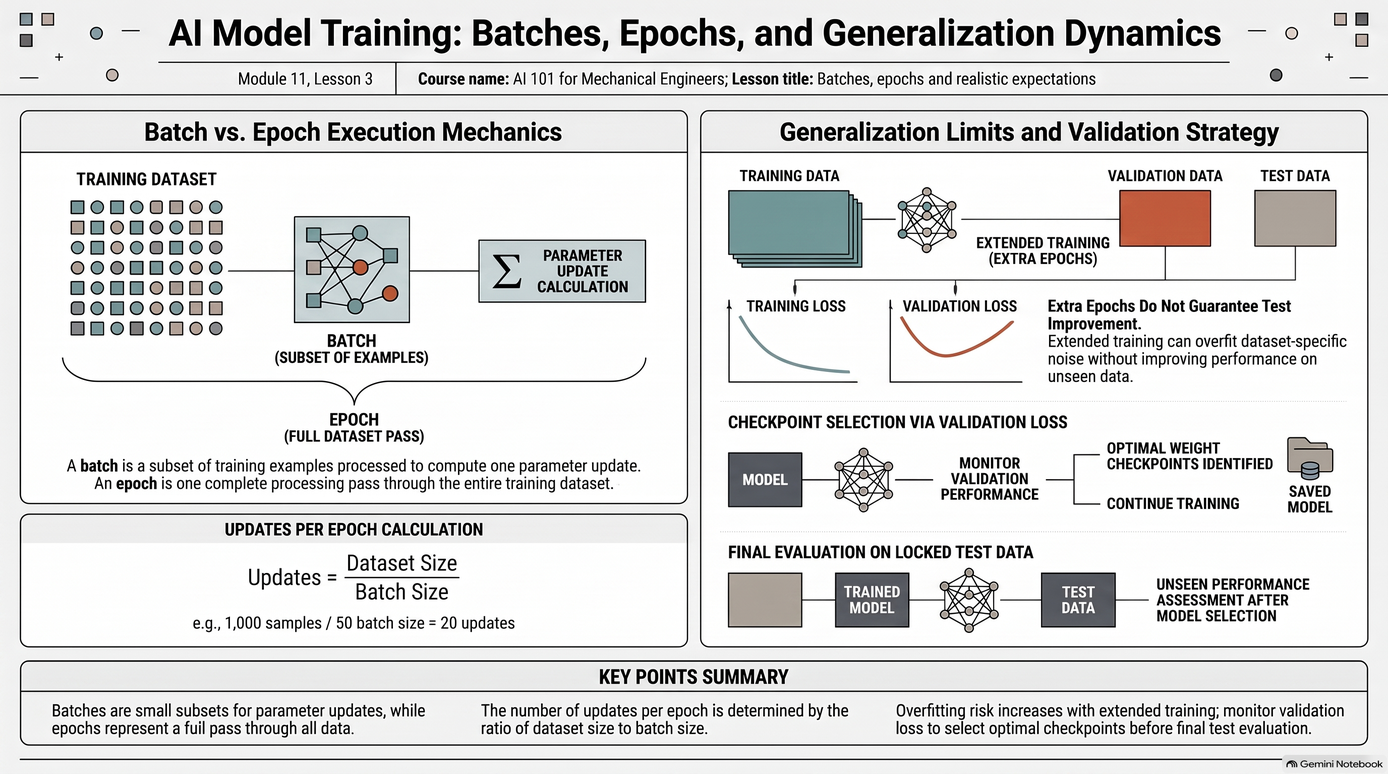
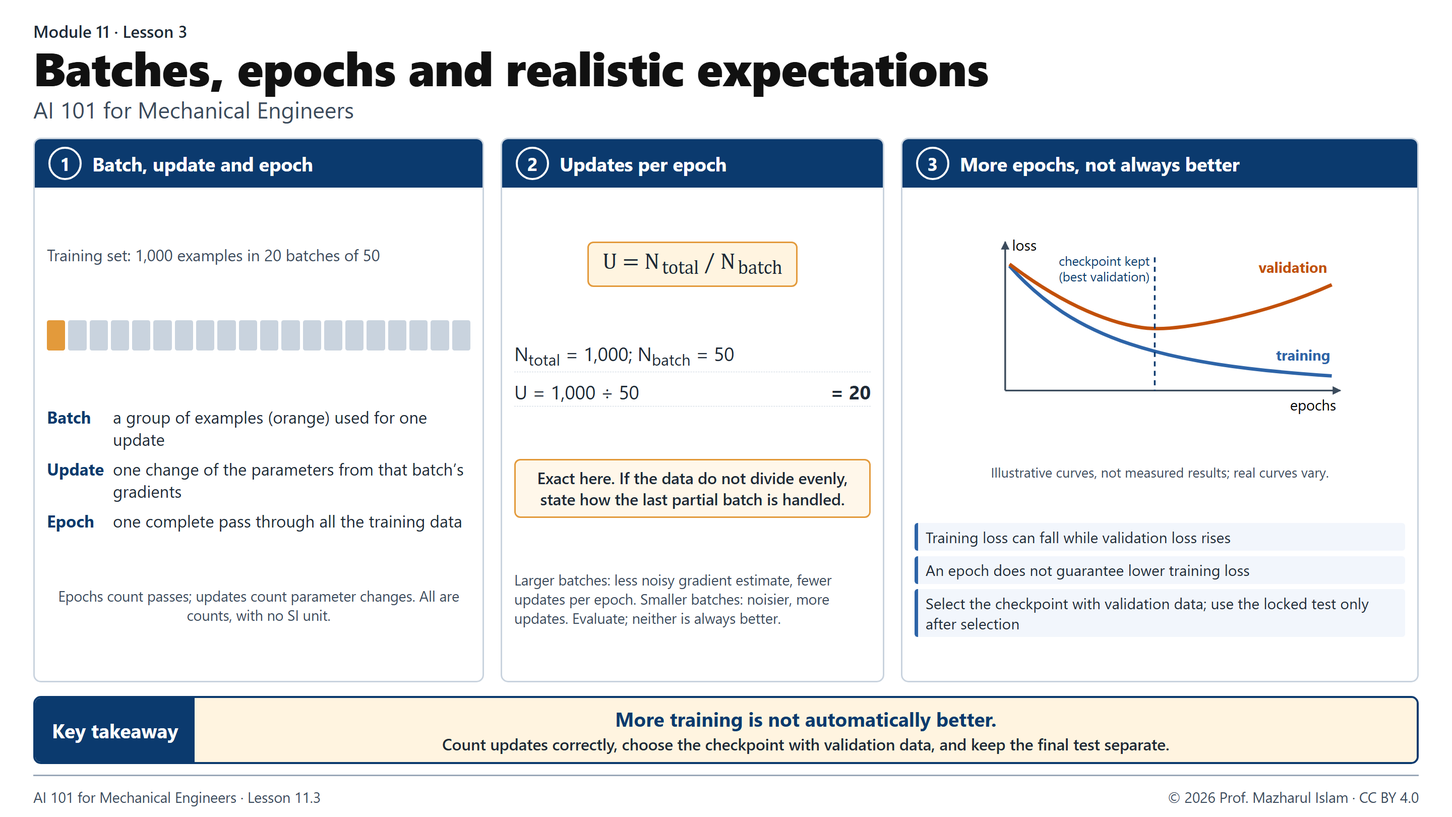
AI 101 Lesson 11.3: replace infographic with revised version
Rebuild 11.3 from the lesson text in the course infographic style and
update its alt text. All 48 lesson infographics are now course-authored.

diff --git a/AI101/AI_101_for_Mechanical_Engineers.html b/AI101/AI_101_for_Mechanical_Engineers.html
@@ -159,7 +159,7 @@ if(review.mindMap)h.append(E('h3',{text:'Gemini Notebook'}),E('p',{},E('a',{href
 h.append(E('h3',{text:'Flashcards'}));deck(h,m.id);h.append(E('div',{class:'actions'},link('Proceed to Quiz',`#/m/${m.num}/quiz`,'btn primary')));
 }
 function modulePage(h,r){let m=MODS[r.n-1];title(h,'Module '+m.num+' / 16',m.title);let tabs=E('nav',{'aria-label':'Module sections',class:'tabs'});m.lessons.forEach((l,i)=>tabs.append(link((P.lessons[l.id]?'✓ ':'')+(i+1)+'. '+l.title,`#/m/${m.num}/${i+1}`,r.sub===String(i+1)?'active':'')));if(WALK[m.id])tabs.append(link('Code',`#/m/${m.num}/code`,r.sub==='code'?'active':''));tabs.append(link('Review',`#/m/${m.num}/review`,['review','cards'].includes(r.sub)?'active':''),link('Quiz',`#/m/${m.num}/quiz`,r.sub==='quiz'?'active':''));h.append(tabs);if(r.sub==='quiz'){let region=E('div');h.append(region);quiz(region,m.id);return;}if(r.sub==='code'){codePage(h,m);return;}if(['review','cards'].includes(r.sub)){moduleReview(h,m);return;}let l=m.lessons[+r.sub-1];h.append(E('h2',{text:l.title}));let outcomes=E('details',{},E('summary',{text:'Module learning outcomes'}));let ul=E('ul');m.outcomes.forEach(o=>ul.append(E('li',{text:o})));outcomes.append(ul);h.append(outcomes);prose(h,l.text);
-const media={m01l1:{video:'5PXqVJoDBgI',audio:'media/1_1-The_Math_Behind_Industrial_AI.m4a',image:'media/1_1-Relationships_Among_AI_Concepts.png',alt:'Lesson 1.1 infographic: AI contains machine learning, which contains deep learning; classification predicts a category while generation produces content; different components need different checks; data science runs from measure and clean to analyse, model and communicate'},m01l2:{video:'FSDlKaTM3Ws',audio:'media/1_2-How_Engineers_Distinguish_AI_From_Automation.m4a',image:'media/1_2-Automation_and_AI_Engineering_Concepts.png',alt:'Lesson 1.2 infographic: a fixed-rule thermostat example of automation; robots sense, decide and act using conventional control, AI or both; narrow AI compared with proposed AGI; five questions on inputs, learned components, outputs, permitted actions and failure consequences'},m01l3:{video:'MOJL4aPNaBY',audio:'media/1_3-Engineering_Decisions_Must_Come_Before_AI.m4a',image:'media/1_3-Defining_an_Engineering_Decision.png',alt:'Lesson 1.3 infographic: deciding whether to request a pump inspection, from measurements through a learned detector, fault score, engineering review and decision; a score is an estimate; operating domain and escalation path; limits of synthetic examples'},m02l1:{video:'ND8u7CSiTqs',audio:'media/2_1-Why_Mechanical_Engineering_Needs_Hybrid_AI.m4a',image:'media/2_1.png',alt:'Lesson 2.1 infographic: physics-based, data-driven and hybrid models compared; pump example with hydraulic power 100,000 Pa × 0.02 m³/s = 2,000 W and input power 2,000 W / 0.8 = 2,500 W; residual r = 2,800 W − 2,500 W = +300 W shows a difference but not its cause'},m02l2:{video:'p4ldXqJdehc',audio:'media/2_2-Why_Mechanical_Engineers_Need_Hybrid_AI.m4a',image:'media/2_2.png',alt:'Lesson 2.2 infographic: table matching prediction, forecasting, diagnosis, control and optimization to what each does and an example; ML training optimization changes model parameters to reduce loss, while engineering optimization changes design or operating variables within physical constraints'},m02l3:{video:'Ldz3IBLDv_Y',audio:'media/2_3-How_Mechanical_Engineers_Use_AI.m4a',image:'media/2_3.png',alt:'Lesson 2.3 infographic: start with the simplest adequate method; when ML might help; four checks of purpose, inputs, baseline and coverage; hybrid pump example with a +300 W residual; compare with the baseline before adding complexity'},m03l1:{video:'bUh9kmRi0_g',audio:'media/3_1-Mapping_Heavy_Machinery_to_Machine_Learning.m4a',image:'media/3_1.png',alt:'Lesson 3.1 infographic: dataset, sample, features, target and label; a pump-test table with flow, pressure rise and shaft speed as features X and measured electrical power as target y; X has shape (120, 3) and y has shape (120,); keep each row matched by test ID'},m03l2:{video:'N0vvkVlTw2o',audio:'media/3_2-Why_Engineering_AI_Needs_Sensor_Metadata.m4a',image:'media/3_2.png',alt:'Lesson 3.2 infographic: metadata such as units, sensor ID, calibration and sampling frequency; raw readings versus a windowed RMS feature; machine IDs and ordinal or nominal categories are not measurements; ground truth is a reference that can contain errors'},m03l3:{video:'O9RXTf5J5-s',audio:'media/3_3-Why_Predictive_AI_Fails_Without_Physics.m4a',image:'media/3_3.png',alt:'Lesson 3.3 infographic: a timeline showing that a repair code recorded after a failure is information leakage for an earlier warning; correlation, prediction and causation compared using flow rate and motor current'},m04l1:{video:'rfXJ_JKeYUs',audio:'media/4_1.m4a',image:'media/4_1.png',alt:'Lesson 4.1 infographic: supervised learning with regression and classification; unsupervised clustering, where a cluster is not automatically a fault category; anomaly alerts that need investigation and independent evidence; semi-supervised learning'},m04l2:{video:'C5h-mjjw18o',audio:'media/4_2.m4a',image:'media/4_2.png',alt:'Lesson 4.2 infographic: masked-signal reconstruction in four steps of observation, constructed input, constructed target and objective; a neural network can use supervised, self-supervised or reinforcement feedback, so architecture does not determine the learning setup'},m04l3:{video:'fgg8jxrDiJw',audio:'media/4_3.m4a',image:'media/4_3.png',alt:'Lesson 4.3 infographic: agent and simulated environment exchanging actions, state and reward; thermal-control example mapping state, action, environment, reward and policy; reward and safety constraints kept separate, beginning with bounded simulation'},m05l1:{video:'0xyZPsXtMyY',audio:'media/5_1.m4a',image:'media/5_1.png',alt:'Lesson 5.1 infographic: warning signs such as negative absolute pressure, duplicate timestamps and mixed W and kW; investigate missing readings before imputing; mean imputation of 20, 22, missing, 24 gives 22, which reduces visible variation; learn replacement values from training data only'},m05l2:{video:'DM1sfD_7cyk',audio:'media/5_2.m4a',image:'media/5_2.png',alt:'Lesson 5.2 infographic: min-max scaling with 25 °C in bounds 0–100 °C giving 0.25; standardization with x = 60 °C, training mean 40 °C and standard deviation 10 °C giving z = 2; one-hot encoding of categories A, B and C; fit on training data and apply stored rules'},m05l3:{video:'6oYBKyxmUFc',audio:'media/5_3.m4a',image:'media/5_3.png',alt:'Lesson 5.3 infographic: build features such as hydraulic power P_h = Δp × Q from engineering knowledge; exclude readings after prediction time; split, fit on training folds, store and apply without refitting; record the input contract of units, missing-value rules and derived features'},m06l1:{video:'M3Wq88DQj0s',audio:'media/6_1.m4a',image:'media/6_1.png',alt:'Lesson 6.1 infographic: a linear model ŷ = b0 + b1·x maps input to prediction while a learning algorithm such as least squares fits its parameters; training, inference and retraining are separate; worked example ŷ = 2 + 3 × 4 = 14'},m06l2:{video:'4SjSZjJOXro',audio:'media/6_2.m4a',image:'media/6_2.png',alt:'Lesson 6.2 infographic: learned parameters, hyperparameters and supplied physical values have different roles; training loss differs from engineering acceptance criteria; MAE and MSE weight errors differently, and a low training loss does not establish safe use'},m06l3:{video:'RSWwn7m9Ph4',audio:'media/6_3.m4a',image:'media/6_3.png',alt:'Lesson 6.3 infographic: compare with a fair baseline on the same examples; the physical baseline MAE of 0.8 kW beats the ML model MAE of 1.2 kW; record the context of a result; a random seed helps repeat a procedure but does not prove accuracy'},m07l1:{video:'M8Mqp4O3bAs',audio:'media/7_1.m4a',image:'media/7_1.png',alt:'Lesson 7.1 infographic: the model ΔT = b0 + b1·P with units K, W, K and K/W; with b0 = 1 K, b1 = 0.6 K/W and P = 10 W the predicted rise is 7 K, and a measured 8 K gives residual +1 K; least squares fits the coefficients, inference applies them'},m07l2:{video:'uvZOy3Jhj5Y',audio:'media/7_2.m4a',image:'media/7_2.png',alt:'Lesson 7.2 infographic: signed residuals of +1, −2 and +3 K; MAE = 2 K and RMSE ≈ 2.160 K, both in target units; R² = 1 − SSE/SST is dimensionless and about −0.1053 here, worse than predicting the mean; inspect residuals by operating condition'},m07l3:{video:'2Czwc72Fchc',audio:'media/7_3.m4a',image:'media/7_3.png',alt:'Lesson 7.3 infographic: define the prediction problem; keep training, validation and final test separate; compare with training-mean and physical baselines and match the split to the task; report units, provenance, held-out metrics and operating limits'},m08l1:{video:'NKojhzCHcZE',audio:'media/8_1.m4a',image:'media/8_1.png',alt:'Lesson 8.1 infographic: a model score is compared with a threshold to predict fault or healthy; a score between 0 and 1 is not automatically a calibrated probability; choose the threshold on validation data; confusion matrix with fault as the positive class showing TP, FN, FP and TN'},m08l2:{video:'zOTYwt-Tr54',audio:'media/8_2.m4a',image:'media/8_2.png',alt:'Lesson 8.2 infographic: with TP = 8, FP = 2, FN = 4 and TN = 86, accuracy is 94%, precision 80%, recall about 66.7% and F1 about 72.7%; each metric answers a different question, and high accuracy alone does not describe fault detection'},m08l3:{video:'b0OM6lczsRk',audio:'media/8_3.m4a',image:'media/8_3.png',alt:'Lesson 8.3 infographic: with 99 healthy cases and 1 fault, always predicting healthy gives 99% accuracy but 0% fault recall; select the threshold on validation and test it separately; an alert leads to evidence review and an authorized decision, weighing false alarms against missed faults'},m09l1:{video:'y80ne8Vybo4',audio:'media/9_1.m4a',image:'media/9_1.png',alt:'Lesson 9.1 infographic: linear regression predicts a number from weighted features; logistic regression estimates a class probability through a link function; k-nearest neighbours uses nearby examples in feature space; a support vector machine learns a separating boundary with a margin; units and scaling change distances; choose methods by evidence'},m09l2:{video:'2YmEhBzF2MY',audio:'media/9_2.m4a',image:'media/9_2.png',alt:'Lesson 9.2 infographic: a decision tree partitions inputs into piecewise regions; a random forest aggregates randomized trees built independently; boosting adds models in sequence to correct remaining errors; a table of each method’s practical concern; learned thresholds are not physical fault limits'},m09l3:{video:'9APUCDA6pVk',audio:'media/9_3.m4a',image:'media/9_3.png',alt:'Lesson 9.3 infographic: k-means groups unlabelled data around chosen centres, and k is not a count of faults; PCA projects data onto high-variance directions, which may miss a rare fault; compare candidates with the same folds and a locked final test; scaling affects distances'},m10l1:{video:'B279XXNadbY',audio:'media/10_1.m4a',image:'media/10_1.png',alt:'Lesson 10.1 infographic: training fits parameters, validation chooses settings and the final test assesses the locked procedure; five-fold cross-validation of 100 examples trains on 80 and validates on 20 each round; match the split to forecasting, unseen equipment or independent designs; many rows do not prove independence'},m10l2:{video:'uMrToW1n1Vg',audio:'media/10_2.m4a',image:'media/10_2.png',alt:'Lesson 10.2 infographic: underfitting misses a relationship while overfitting follows training-specific detail; regularization adds penalties or constraints and L1 can zero coefficients; early stopping selects a checkpoint where validation loss starts to rise, never using the final test'},m10l3:{video:'ZQJwwFjbULQ',audio:'media/10_3.m4a',image:'media/10_3.png',alt:'Lesson 10.3 infographic: four leakage routes of preprocessing, future readings, outcome-derived inputs and duplicate events; fit transformations only inside training folds; exclude the reading at t+1 from a feature for prediction time t; lock the procedure before the final test and record split identifiers, seeds and versions'},m11l1:{video:'6kmxgxU5OtU',audio:'media/11_1.m4a',image:'media/11_1.png',alt:'Lesson 11.1 infographic: a neuron multiplies inputs by weights, adds a bias and applies ReLU, worked to z = 0.2 and a = 0.2; ReLU maps −3 to 0, 0.2 to 0.2 and 2 to 2; three affine layers in series collapse to one affine map y = W′x + b′ with W′ = W₃W₂W₁ and b′ = W₃W₂b₁ + W₃b₂ + b₃, linear only when b′ = 0; values are dimensionless by convention'},m11l2:{video:'HpPJ6ckgXU4',audio:'media/11_2.m4a',image:'media/11_2.png',alt:'Lesson 11.2 infographic: one training step runs prediction, loss L, backpropagation, gradient ∇θL, optimizer and new parameters; the update θ_new = θ_old − η∇θL with θ_old = 2.0, gradient 0.5 and η = 0.1 gives 1.95; the learning rate is a training setting; one update proves neither convergence nor physical validity'},m11l3:{video:'yGjRY3dHNCw',audio:'media/11_3.m4a',image:'media/11_3.png',alt:'Batches, epochs, validation checkpoints and generalization limits infographic'},m12l1:{video:'3mFpYxI7084',audio:'media/12_1.m4a',image:'media/12_1.png',alt:'Lesson 12.1 infographic: tabular data, images and signals need different representations; an MLP processes feature vectors and a CNN applies shared local filters to pixels; a filter response is not a confirmed defect; hold out whole components so test components stay unseen'},m12l2:{video:'iQtAabOUAOw',audio:'media/12_2.m4a',image:'media/12_2.png',alt:'Lesson 12.2 infographic: an RNN carries a hidden state from step to step and an LSTM adds mechanisms to retain information; a transformer weights positions with attention, which does not prove a physical cause; use only inputs available at the forecast issue time'},m12l3:{video:'o1sjsbKAx9c',audio:'media/12_3.m4a',image:'media/12_3.png',alt:'Lesson 12.3 infographic: 15-minute data give 96 samples per day only when complete, so align by timestamps; the forecast horizon runs from issue time to target time; overlapping windows share samples and need chronological or event-level splits'},m13l1:{video:'5BVmXgZNgpg',audio:'media/13_1.m4a',image:'media/13_1.png',alt:'Lesson 13.1 infographic: a language model continues a token sequence, and fluent output is not proof of correct equations, references or assumptions; LLM, foundation model and multimodal model answer different questions; diffusion models reverse a noising process and GANs train a generator against a discriminator; generated explanations, drawings and code need checking, and code must be executed and tested'},m13l2:{video:'Se06_TxJul8',audio:'media/13_2.m4a',image:'media/13_2.png',alt:'Lesson 13.2 infographic: a tokenizer splits text into model-specific units, so word counts do not give token counts; the context window bounds what the model can use and a larger window does not guarantee correct use; the word cell needs its system stated; embeddings are vectors and nearby vectors help retrieve passages without proving a claim'},m13l3:{video:'XoYcvrMW2y8',audio:'media/13_3.m4a',image:'media/13_3.png',alt:'Lesson 13.3 infographic: pretraining and fine-tuning update weights and transfer learning does so only when fine-tuned; zero-shot prompts, few-shot prompts and retrieval supply context without updating weights during the query; the worked case classifies example summaries, a retrieved manual passage and fine-tuning; weight behaviour is not a data-retention policy'},m14l1:{video:'1XHxHqd6P0k',audio:'media/14_1.m4a',image:'media/14_1.png',alt:'Lesson 14.1 infographic: build an engineering prompt with task, audience and system, values with units, assumptions and output format; the PV teaching case gives P_DC = 0.20 × 20 m² × 800 W/m² = 3,200 W and P_AC = 3,072 W, and 3,200 kW would be a factor-of-1,000 error; 3.072 kW for 2 h is 6.144 kWh, not a daily yield; zero-shot prompts have no demonstrations and few-shot prompts add examples'},m14l2:{video:'7oluOfQTwac',audio:'media/14_2.m4a',image:'media/14_2.png',alt:'Lesson 14.2 infographic: RAG runs query, retrieve, add to context and generate, with a check at each stage; supplying a passage does not update weights; before using a retrieved operating limit, check the equipment and part number, the active revision and that the wording supports the claim; grounding and citation labels are not proof'},m14l3:{video:'-ZsxFY5h02I',audio:'media/14_3.m4a',image:'media/14_3.png',alt:'Lesson 14.3 infographic: course working definitions of assistant, tool, API and agent; generated code is drafted, run, verified and approved as separate stages, and running without error is not proof; checks include tests, units, input limits, permissions, logs and approval; more autonomy needs more explicit controls and responsibility stays with people'},m15l1:{video:'dNbzZDsyR_I',audio:'media/15_1.m4a',image:'media/15_1.png',alt:'Lesson 15.1 infographic: aleatoric uncertainty is variation in observations and epistemic uncertainty is limited knowledge; a point inside the min–max input range can still lack nearby data, so interpolation needs validation and confidence does not justify extrapolation; distribution shift is a difference between data distributions, drift is change over time that can be abrupt, gradual or recurring, and concept drift changes the input–target relationship'},m15l2:{video:'ZDOon3TWimU',audio:'media/15_2.m4a',image:'media/15_2.png',alt:'Lesson 15.2 infographic: verification asks whether the method was implemented correctly, using known cases, units, bounds and sign checks, such as P_h = Δp × Q giving watts; validation asks whether the model represents the real system, using independent calibrated measurements across operating conditions, and synthetic agreement does not validate hardware; record provenance, since reproducible is not correct; re-check after a new sensor, recalibration, regime or plant'},m15l3:{video:'Kg4aBcgdeC8',audio:'media/15_3.m4a',image:'media/15_3.png',alt:'Lesson 15.3 infographic: pass AI output through a verification gate because hallucinations can invent citations, properties or equations; data-coverage bias, social fairness and the neural-network bias term are different ideas; human oversight needs a named reviewer, defined outputs and evidence, authority to stop and an audit trail; protect restricted data and systems; scale computation to the task and disclose AI assistance'},m16l1:{video:'9Q3hvMOewXg',audio:'media/16_1.m4a',image:'media/16_1.png',alt:'Lesson 16.1 infographic: surrogates screen candidates but promising designs need re-evaluation, verification and physical validation; objectives and constraints are separate and infeasible designs fail a limit; a digital model has only manual data exchange, a digital shadow receives data automatically from equipment and a digital twin exchanges data automatically both ways, with definitions varying; physics-informed learning adds an equation residual to the loss and a PINN is one approach, not one architecture'},m16l2:{video:'O-9Nl2pD5po',audio:'media/16_2.m4a',image:'media/16_2.png',alt:'Lesson 16.2 infographic: bound one decision, such as predicting measured electrical input power in kW from flow rate and pressure rise, and document the target, inputs, operating domain and data provenance; label synthetic data; fit preprocessing on training data, use validation for choices and a locked test once; compare with a training-mean baseline and a physical calculation; report errors with units and physical checks; keep evidence for each stage'},m16l3:{video:'59A56rQ40ts',audio:'media/16_3.m4a',image:'media/16_3.png',alt:'Lesson 16.3 infographic: the browser score combines 70% mean best module quiz score and 30% final and checks knowledge only; it cannot authenticate a learner, validate a model or authorize deployment; the practical rubric weights data and preprocessing 45%, evaluation and physics 45%, and reproducibility and AI disclosure 10%; before submitting, rerun the notebook, state the operating domain and include physics checks and AI disclosure'}};
+const media={m01l1:{video:'5PXqVJoDBgI',audio:'media/1_1-The_Math_Behind_Industrial_AI.m4a',image:'media/1_1-Relationships_Among_AI_Concepts.png',alt:'Lesson 1.1 infographic: AI contains machine learning, which contains deep learning; classification predicts a category while generation produces content; different components need different checks; data science runs from measure and clean to analyse, model and communicate'},m01l2:{video:'FSDlKaTM3Ws',audio:'media/1_2-How_Engineers_Distinguish_AI_From_Automation.m4a',image:'media/1_2-Automation_and_AI_Engineering_Concepts.png',alt:'Lesson 1.2 infographic: a fixed-rule thermostat example of automation; robots sense, decide and act using conventional control, AI or both; narrow AI compared with proposed AGI; five questions on inputs, learned components, outputs, permitted actions and failure consequences'},m01l3:{video:'MOJL4aPNaBY',audio:'media/1_3-Engineering_Decisions_Must_Come_Before_AI.m4a',image:'media/1_3-Defining_an_Engineering_Decision.png',alt:'Lesson 1.3 infographic: deciding whether to request a pump inspection, from measurements through a learned detector, fault score, engineering review and decision; a score is an estimate; operating domain and escalation path; limits of synthetic examples'},m02l1:{video:'ND8u7CSiTqs',audio:'media/2_1-Why_Mechanical_Engineering_Needs_Hybrid_AI.m4a',image:'media/2_1.png',alt:'Lesson 2.1 infographic: physics-based, data-driven and hybrid models compared; pump example with hydraulic power 100,000 Pa × 0.02 m³/s = 2,000 W and input power 2,000 W / 0.8 = 2,500 W; residual r = 2,800 W − 2,500 W = +300 W shows a difference but not its cause'},m02l2:{video:'p4ldXqJdehc',audio:'media/2_2-Why_Mechanical_Engineers_Need_Hybrid_AI.m4a',image:'media/2_2.png',alt:'Lesson 2.2 infographic: table matching prediction, forecasting, diagnosis, control and optimization to what each does and an example; ML training optimization changes model parameters to reduce loss, while engineering optimization changes design or operating variables within physical constraints'},m02l3:{video:'Ldz3IBLDv_Y',audio:'media/2_3-How_Mechanical_Engineers_Use_AI.m4a',image:'media/2_3.png',alt:'Lesson 2.3 infographic: start with the simplest adequate method; when ML might help; four checks of purpose, inputs, baseline and coverage; hybrid pump example with a +300 W residual; compare with the baseline before adding complexity'},m03l1:{video:'bUh9kmRi0_g',audio:'media/3_1-Mapping_Heavy_Machinery_to_Machine_Learning.m4a',image:'media/3_1.png',alt:'Lesson 3.1 infographic: dataset, sample, features, target and label; a pump-test table with flow, pressure rise and shaft speed as features X and measured electrical power as target y; X has shape (120, 3) and y has shape (120,); keep each row matched by test ID'},m03l2:{video:'N0vvkVlTw2o',audio:'media/3_2-Why_Engineering_AI_Needs_Sensor_Metadata.m4a',image:'media/3_2.png',alt:'Lesson 3.2 infographic: metadata such as units, sensor ID, calibration and sampling frequency; raw readings versus a windowed RMS feature; machine IDs and ordinal or nominal categories are not measurements; ground truth is a reference that can contain errors'},m03l3:{video:'O9RXTf5J5-s',audio:'media/3_3-Why_Predictive_AI_Fails_Without_Physics.m4a',image:'media/3_3.png',alt:'Lesson 3.3 infographic: a timeline showing that a repair code recorded after a failure is information leakage for an earlier warning; correlation, prediction and causation compared using flow rate and motor current'},m04l1:{video:'rfXJ_JKeYUs',audio:'media/4_1.m4a',image:'media/4_1.png',alt:'Lesson 4.1 infographic: supervised learning with regression and classification; unsupervised clustering, where a cluster is not automatically a fault category; anomaly alerts that need investigation and independent evidence; semi-supervised learning'},m04l2:{video:'C5h-mjjw18o',audio:'media/4_2.m4a',image:'media/4_2.png',alt:'Lesson 4.2 infographic: masked-signal reconstruction in four steps of observation, constructed input, constructed target and objective; a neural network can use supervised, self-supervised or reinforcement feedback, so architecture does not determine the learning setup'},m04l3:{video:'fgg8jxrDiJw',audio:'media/4_3.m4a',image:'media/4_3.png',alt:'Lesson 4.3 infographic: agent and simulated environment exchanging actions, state and reward; thermal-control example mapping state, action, environment, reward and policy; reward and safety constraints kept separate, beginning with bounded simulation'},m05l1:{video:'0xyZPsXtMyY',audio:'media/5_1.m4a',image:'media/5_1.png',alt:'Lesson 5.1 infographic: warning signs such as negative absolute pressure, duplicate timestamps and mixed W and kW; investigate missing readings before imputing; mean imputation of 20, 22, missing, 24 gives 22, which reduces visible variation; learn replacement values from training data only'},m05l2:{video:'DM1sfD_7cyk',audio:'media/5_2.m4a',image:'media/5_2.png',alt:'Lesson 5.2 infographic: min-max scaling with 25 °C in bounds 0–100 °C giving 0.25; standardization with x = 60 °C, training mean 40 °C and standard deviation 10 °C giving z = 2; one-hot encoding of categories A, B and C; fit on training data and apply stored rules'},m05l3:{video:'6oYBKyxmUFc',audio:'media/5_3.m4a',image:'media/5_3.png',alt:'Lesson 5.3 infographic: build features such as hydraulic power P_h = Δp × Q from engineering knowledge; exclude readings after prediction time; split, fit on training folds, store and apply without refitting; record the input contract of units, missing-value rules and derived features'},m06l1:{video:'M3Wq88DQj0s',audio:'media/6_1.m4a',image:'media/6_1.png',alt:'Lesson 6.1 infographic: a linear model ŷ = b0 + b1·x maps input to prediction while a learning algorithm such as least squares fits its parameters; training, inference and retraining are separate; worked example ŷ = 2 + 3 × 4 = 14'},m06l2:{video:'4SjSZjJOXro',audio:'media/6_2.m4a',image:'media/6_2.png',alt:'Lesson 6.2 infographic: learned parameters, hyperparameters and supplied physical values have different roles; training loss differs from engineering acceptance criteria; MAE and MSE weight errors differently, and a low training loss does not establish safe use'},m06l3:{video:'RSWwn7m9Ph4',audio:'media/6_3.m4a',image:'media/6_3.png',alt:'Lesson 6.3 infographic: compare with a fair baseline on the same examples; the physical baseline MAE of 0.8 kW beats the ML model MAE of 1.2 kW; record the context of a result; a random seed helps repeat a procedure but does not prove accuracy'},m07l1:{video:'M8Mqp4O3bAs',audio:'media/7_1.m4a',image:'media/7_1.png',alt:'Lesson 7.1 infographic: the model ΔT = b0 + b1·P with units K, W, K and K/W; with b0 = 1 K, b1 = 0.6 K/W and P = 10 W the predicted rise is 7 K, and a measured 8 K gives residual +1 K; least squares fits the coefficients, inference applies them'},m07l2:{video:'uvZOy3Jhj5Y',audio:'media/7_2.m4a',image:'media/7_2.png',alt:'Lesson 7.2 infographic: signed residuals of +1, −2 and +3 K; MAE = 2 K and RMSE ≈ 2.160 K, both in target units; R² = 1 − SSE/SST is dimensionless and about −0.1053 here, worse than predicting the mean; inspect residuals by operating condition'},m07l3:{video:'2Czwc72Fchc',audio:'media/7_3.m4a',image:'media/7_3.png',alt:'Lesson 7.3 infographic: define the prediction problem; keep training, validation and final test separate; compare with training-mean and physical baselines and match the split to the task; report units, provenance, held-out metrics and operating limits'},m08l1:{video:'NKojhzCHcZE',audio:'media/8_1.m4a',image:'media/8_1.png',alt:'Lesson 8.1 infographic: a model score is compared with a threshold to predict fault or healthy; a score between 0 and 1 is not automatically a calibrated probability; choose the threshold on validation data; confusion matrix with fault as the positive class showing TP, FN, FP and TN'},m08l2:{video:'zOTYwt-Tr54',audio:'media/8_2.m4a',image:'media/8_2.png',alt:'Lesson 8.2 infographic: with TP = 8, FP = 2, FN = 4 and TN = 86, accuracy is 94%, precision 80%, recall about 66.7% and F1 about 72.7%; each metric answers a different question, and high accuracy alone does not describe fault detection'},m08l3:{video:'b0OM6lczsRk',audio:'media/8_3.m4a',image:'media/8_3.png',alt:'Lesson 8.3 infographic: with 99 healthy cases and 1 fault, always predicting healthy gives 99% accuracy but 0% fault recall; select the threshold on validation and test it separately; an alert leads to evidence review and an authorized decision, weighing false alarms against missed faults'},m09l1:{video:'y80ne8Vybo4',audio:'media/9_1.m4a',image:'media/9_1.png',alt:'Lesson 9.1 infographic: linear regression predicts a number from weighted features; logistic regression estimates a class probability through a link function; k-nearest neighbours uses nearby examples in feature space; a support vector machine learns a separating boundary with a margin; units and scaling change distances; choose methods by evidence'},m09l2:{video:'2YmEhBzF2MY',audio:'media/9_2.m4a',image:'media/9_2.png',alt:'Lesson 9.2 infographic: a decision tree partitions inputs into piecewise regions; a random forest aggregates randomized trees built independently; boosting adds models in sequence to correct remaining errors; a table of each method’s practical concern; learned thresholds are not physical fault limits'},m09l3:{video:'9APUCDA6pVk',audio:'media/9_3.m4a',image:'media/9_3.png',alt:'Lesson 9.3 infographic: k-means groups unlabelled data around chosen centres, and k is not a count of faults; PCA projects data onto high-variance directions, which may miss a rare fault; compare candidates with the same folds and a locked final test; scaling affects distances'},m10l1:{video:'B279XXNadbY',audio:'media/10_1.m4a',image:'media/10_1.png',alt:'Lesson 10.1 infographic: training fits parameters, validation chooses settings and the final test assesses the locked procedure; five-fold cross-validation of 100 examples trains on 80 and validates on 20 each round; match the split to forecasting, unseen equipment or independent designs; many rows do not prove independence'},m10l2:{video:'uMrToW1n1Vg',audio:'media/10_2.m4a',image:'media/10_2.png',alt:'Lesson 10.2 infographic: underfitting misses a relationship while overfitting follows training-specific detail; regularization adds penalties or constraints and L1 can zero coefficients; early stopping selects a checkpoint where validation loss starts to rise, never using the final test'},m10l3:{video:'ZQJwwFjbULQ',audio:'media/10_3.m4a',image:'media/10_3.png',alt:'Lesson 10.3 infographic: four leakage routes of preprocessing, future readings, outcome-derived inputs and duplicate events; fit transformations only inside training folds; exclude the reading at t+1 from a feature for prediction time t; lock the procedure before the final test and record split identifiers, seeds and versions'},m11l1:{video:'6kmxgxU5OtU',audio:'media/11_1.m4a',image:'media/11_1.png',alt:'Lesson 11.1 infographic: a neuron multiplies inputs by weights, adds a bias and applies ReLU, worked to z = 0.2 and a = 0.2; ReLU maps −3 to 0, 0.2 to 0.2 and 2 to 2; three affine layers in series collapse to one affine map y = W′x + b′ with W′ = W₃W₂W₁ and b′ = W₃W₂b₁ + W₃b₂ + b₃, linear only when b′ = 0; values are dimensionless by convention'},m11l2:{video:'HpPJ6ckgXU4',audio:'media/11_2.m4a',image:'media/11_2.png',alt:'Lesson 11.2 infographic: one training step runs prediction, loss L, backpropagation, gradient ∇θL, optimizer and new parameters; the update θ_new = θ_old − η∇θL with θ_old = 2.0, gradient 0.5 and η = 0.1 gives 1.95; the learning rate is a training setting; one update proves neither convergence nor physical validity'},m11l3:{video:'yGjRY3dHNCw',audio:'media/11_3.m4a',image:'media/11_3.png',alt:'Lesson 11.3 infographic: a batch is a group of examples used for one update and an epoch is one pass through the training data; with 1,000 examples and batches of 50, U = 1,000 ÷ 50 = 20 updates per epoch; illustrative curves show training loss falling while validation loss rises, so the checkpoint is chosen with validation data and the locked test is used only after selection'},m12l1:{video:'3mFpYxI7084',audio:'media/12_1.m4a',image:'media/12_1.png',alt:'Lesson 12.1 infographic: tabular data, images and signals need different representations; an MLP processes feature vectors and a CNN applies shared local filters to pixels; a filter response is not a confirmed defect; hold out whole components so test components stay unseen'},m12l2:{video:'iQtAabOUAOw',audio:'media/12_2.m4a',image:'media/12_2.png',alt:'Lesson 12.2 infographic: an RNN carries a hidden state from step to step and an LSTM adds mechanisms to retain information; a transformer weights positions with attention, which does not prove a physical cause; use only inputs available at the forecast issue time'},m12l3:{video:'o1sjsbKAx9c',audio:'media/12_3.m4a',image:'media/12_3.png',alt:'Lesson 12.3 infographic: 15-minute data give 96 samples per day only when complete, so align by timestamps; the forecast horizon runs from issue time to target time; overlapping windows share samples and need chronological or event-level splits'},m13l1:{video:'5BVmXgZNgpg',audio:'media/13_1.m4a',image:'media/13_1.png',alt:'Lesson 13.1 infographic: a language model continues a token sequence, and fluent output is not proof of correct equations, references or assumptions; LLM, foundation model and multimodal model answer different questions; diffusion models reverse a noising process and GANs train a generator against a discriminator; generated explanations, drawings and code need checking, and code must be executed and tested'},m13l2:{video:'Se06_TxJul8',audio:'media/13_2.m4a',image:'media/13_2.png',alt:'Lesson 13.2 infographic: a tokenizer splits text into model-specific units, so word counts do not give token counts; the context window bounds what the model can use and a larger window does not guarantee correct use; the word cell needs its system stated; embeddings are vectors and nearby vectors help retrieve passages without proving a claim'},m13l3:{video:'XoYcvrMW2y8',audio:'media/13_3.m4a',image:'media/13_3.png',alt:'Lesson 13.3 infographic: pretraining and fine-tuning update weights and transfer learning does so only when fine-tuned; zero-shot prompts, few-shot prompts and retrieval supply context without updating weights during the query; the worked case classifies example summaries, a retrieved manual passage and fine-tuning; weight behaviour is not a data-retention policy'},m14l1:{video:'1XHxHqd6P0k',audio:'media/14_1.m4a',image:'media/14_1.png',alt:'Lesson 14.1 infographic: build an engineering prompt with task, audience and system, values with units, assumptions and output format; the PV teaching case gives P_DC = 0.20 × 20 m² × 800 W/m² = 3,200 W and P_AC = 3,072 W, and 3,200 kW would be a factor-of-1,000 error; 3.072 kW for 2 h is 6.144 kWh, not a daily yield; zero-shot prompts have no demonstrations and few-shot prompts add examples'},m14l2:{video:'7oluOfQTwac',audio:'media/14_2.m4a',image:'media/14_2.png',alt:'Lesson 14.2 infographic: RAG runs query, retrieve, add to context and generate, with a check at each stage; supplying a passage does not update weights; before using a retrieved operating limit, check the equipment and part number, the active revision and that the wording supports the claim; grounding and citation labels are not proof'},m14l3:{video:'-ZsxFY5h02I',audio:'media/14_3.m4a',image:'media/14_3.png',alt:'Lesson 14.3 infographic: course working definitions of assistant, tool, API and agent; generated code is drafted, run, verified and approved as separate stages, and running without error is not proof; checks include tests, units, input limits, permissions, logs and approval; more autonomy needs more explicit controls and responsibility stays with people'},m15l1:{video:'dNbzZDsyR_I',audio:'media/15_1.m4a',image:'media/15_1.png',alt:'Lesson 15.1 infographic: aleatoric uncertainty is variation in observations and epistemic uncertainty is limited knowledge; a point inside the min–max input range can still lack nearby data, so interpolation needs validation and confidence does not justify extrapolation; distribution shift is a difference between data distributions, drift is change over time that can be abrupt, gradual or recurring, and concept drift changes the input–target relationship'},m15l2:{video:'ZDOon3TWimU',audio:'media/15_2.m4a',image:'media/15_2.png',alt:'Lesson 15.2 infographic: verification asks whether the method was implemented correctly, using known cases, units, bounds and sign checks, such as P_h = Δp × Q giving watts; validation asks whether the model represents the real system, using independent calibrated measurements across operating conditions, and synthetic agreement does not validate hardware; record provenance, since reproducible is not correct; re-check after a new sensor, recalibration, regime or plant'},m15l3:{video:'Kg4aBcgdeC8',audio:'media/15_3.m4a',image:'media/15_3.png',alt:'Lesson 15.3 infographic: pass AI output through a verification gate because hallucinations can invent citations, properties or equations; data-coverage bias, social fairness and the neural-network bias term are different ideas; human oversight needs a named reviewer, defined outputs and evidence, authority to stop and an audit trail; protect restricted data and systems; scale computation to the task and disclose AI assistance'},m16l1:{video:'9Q3hvMOewXg',audio:'media/16_1.m4a',image:'media/16_1.png',alt:'Lesson 16.1 infographic: surrogates screen candidates but promising designs need re-evaluation, verification and physical validation; objectives and constraints are separate and infeasible designs fail a limit; a digital model has only manual data exchange, a digital shadow receives data automatically from equipment and a digital twin exchanges data automatically both ways, with definitions varying; physics-informed learning adds an equation residual to the loss and a PINN is one approach, not one architecture'},m16l2:{video:'O-9Nl2pD5po',audio:'media/16_2.m4a',image:'media/16_2.png',alt:'Lesson 16.2 infographic: bound one decision, such as predicting measured electrical input power in kW from flow rate and pressure rise, and document the target, inputs, operating domain and data provenance; label synthetic data; fit preprocessing on training data, use validation for choices and a locked test once; compare with a training-mean baseline and a physical calculation; report errors with units and physical checks; keep evidence for each stage'},m16l3:{video:'59A56rQ40ts',audio:'media/16_3.m4a',image:'media/16_3.png',alt:'Lesson 16.3 infographic: the browser score combines 70% mean best module quiz score and 30% final and checks knowledge only; it cannot authenticate a learner, validate a model or authorize deployment; the practical rubric weights data and preprocessing 45%, evaluation and physics 45%, and reproducibility and AI disclosure 10%; before submitting, rerun the notebook, state the operating domain and include physics checks and AI disclosure'}};
 let extra=media[l.id];if(extra){
 let box=E('section',{class:'learning-media','aria-label':'Lesson learning resources'});
 {let ns=[...new Set([...l.text.matchAll(/\[(\d{1,3})(?:, (?:Sec|Ch|p|pp)\.\s?[^\]]{1,30})?\]/g)].map(x=>+x[1]))].sort((a,b)=>a-b);box.append(E('p',{class:'small resource-note'},'These resources summarise the written lesson above. If a resource differs from the written lesson, follow the written lesson. The slides, video and audio narration have not yet been checked word by word against it.',...(ns.length?[' Sources for this lesson: ',...cites(ns.map(n=>'['+n+']').join(', ')),'.']:[])));}
